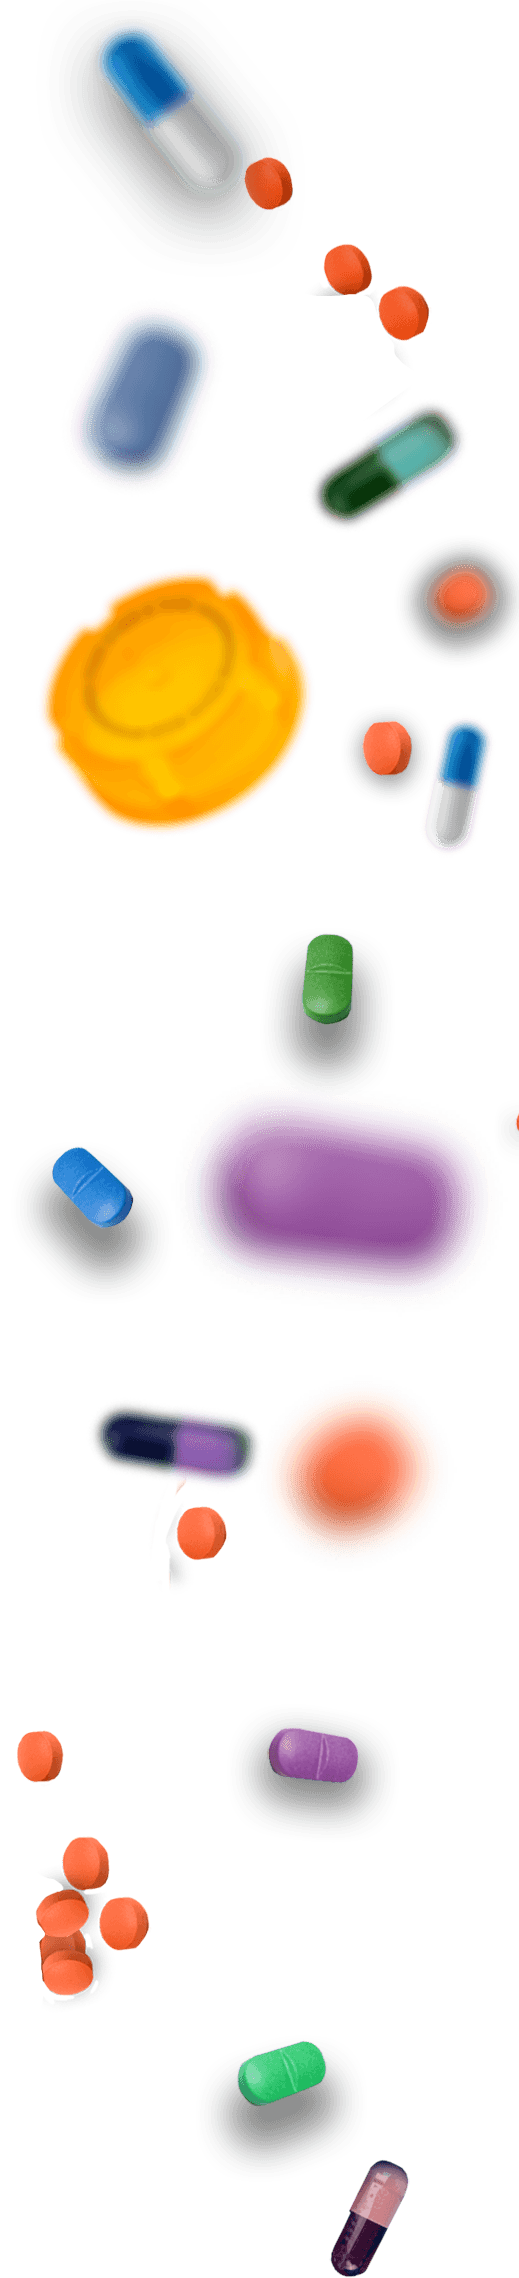
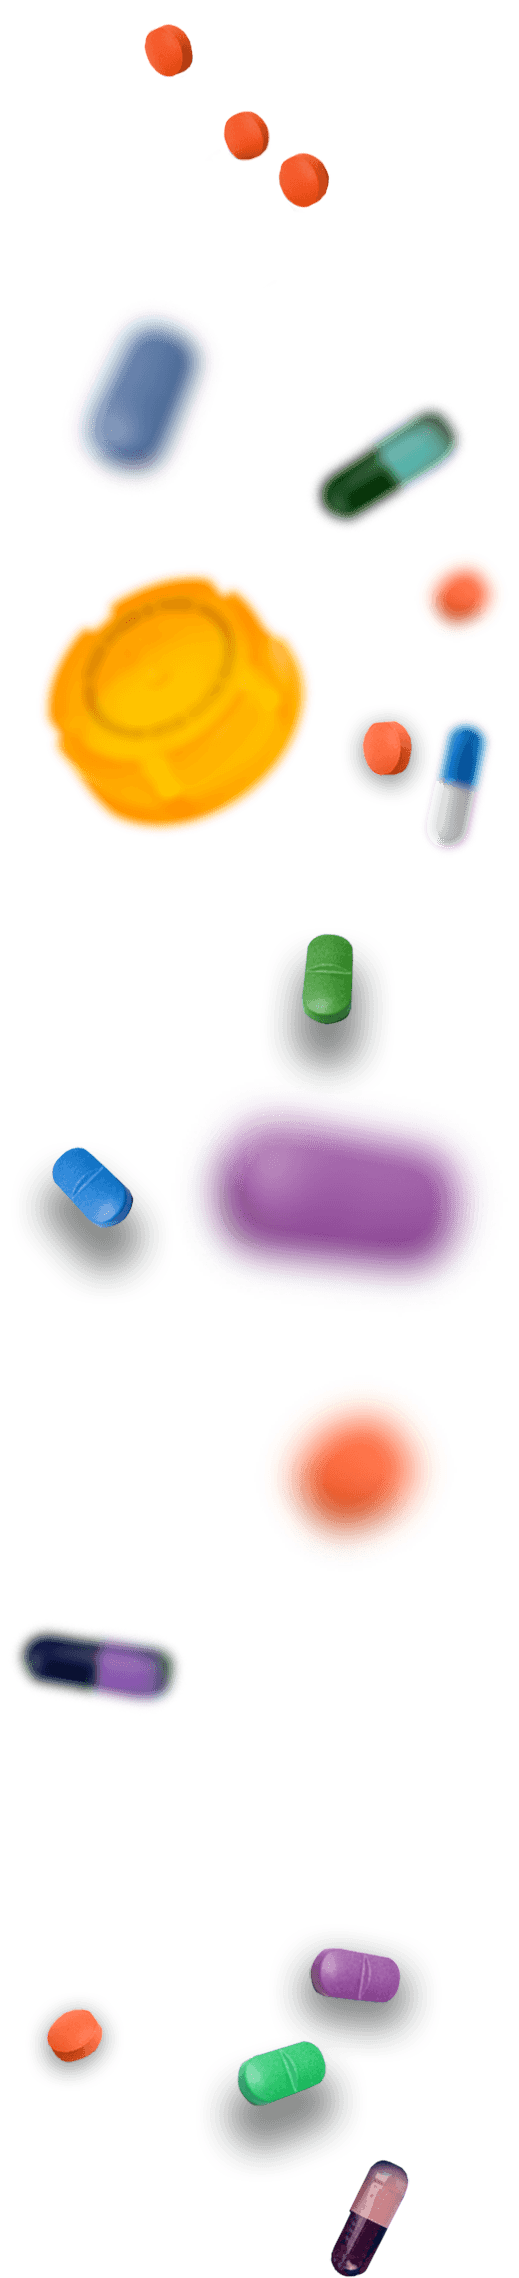
update graphics medicine, cupcake

diff --git a/nature.html b/nature.html
@@ -294,7 +294,7 @@
 			<div class="parallax">
 				<div id="tomato" class="layer" data-speed="2.0"></div>
 				<div id="bun" class="layer" data-speed="0.6"></div>
-				<div id="meat" class="layer" data-speed="0.2"></div>
+				<div id="meat" class="layer" data-speed="0.8"></div>
 				<div id="pickle" class="layer" data-speed="1.6"></div>
 			</div>
 		</div>
@@ -334,9 +334,9 @@
 				</div>
 			</div>
 			<div class="parallax">
-				<div id="capsule" class="layer" data-speed="0.2"></div>
+				<div id="capsule" class="layer" data-speed="0.7"></div>
 				<div id="pills" class="layer" data-speed="1.5"></div>
-				<div id="bottle" class="layer" data-speed="0.5"></div>
+				<div id="bottle" class="layer" data-speed="0.7"></div>
 				<div id="pills-2" class="layer" data-speed="2.5"></div>
 			</div>
 		</div>
@@ -476,7 +476,7 @@ switch to a more fuel-efficient car, take public transit if you can, or ride a b
 				<div id="cake-1" class="layer" data-speed="0.75"></div>
 				<div id="cake-2" class="layer" data-speed="1"></div>
 				<div id="cake-3" class="layer" data-speed="1.5"></div>
-				<div id="cake-4" class="layer" data-speed="1.0"></div>
+				<div id="cake-4" class="layer" data-speed="1.7"></div>
 			</div>
 		</div>
 	</div>

diff --git a/assets/stylesheets/infoG.css b/assets/stylesheets/infoG.css
@@ -415,7 +415,7 @@
 				  background-image: url(../images/nature_u/burger/burger.png);
 				  width:27em;
 				  height:77.5625em;
-				  top:25em;
+				  top:75em;
 				  left:0;
 				  z-index: 8;
 			}
@@ -543,7 +543,7 @@
 			}
 
 			#pills-2{
-				background-image: url(../images/nature_u/med/blur_pills.png);
+				background-image: url(../images/nature_u/med/pumper.png);
 				width:8.9375em;
 				height:39.3125em;
 				top:100em;
@@ -551,14 +551,14 @@
 				z-index: 8;
 			}
 
-			#bumper{
+			/* #bumper{
 				background-image: url(../images/nature_u/med/pumper.png);
 				width:22em;
 				height:39.3125em;
 				top:75em;
 				left:0;
 				z-index: 10;
-			}
+			} */
 
 			/******* car bottle section *******/
 
@@ -773,7 +773,7 @@
 				background-image: url(../images/nature_u/cupcake/cakes_1.png);
 				width:14.3125em;
 				height:39.3125em;
-				top:100em;
+				top:125em;
 				left:0;
 				z-index: 4;
 			}
